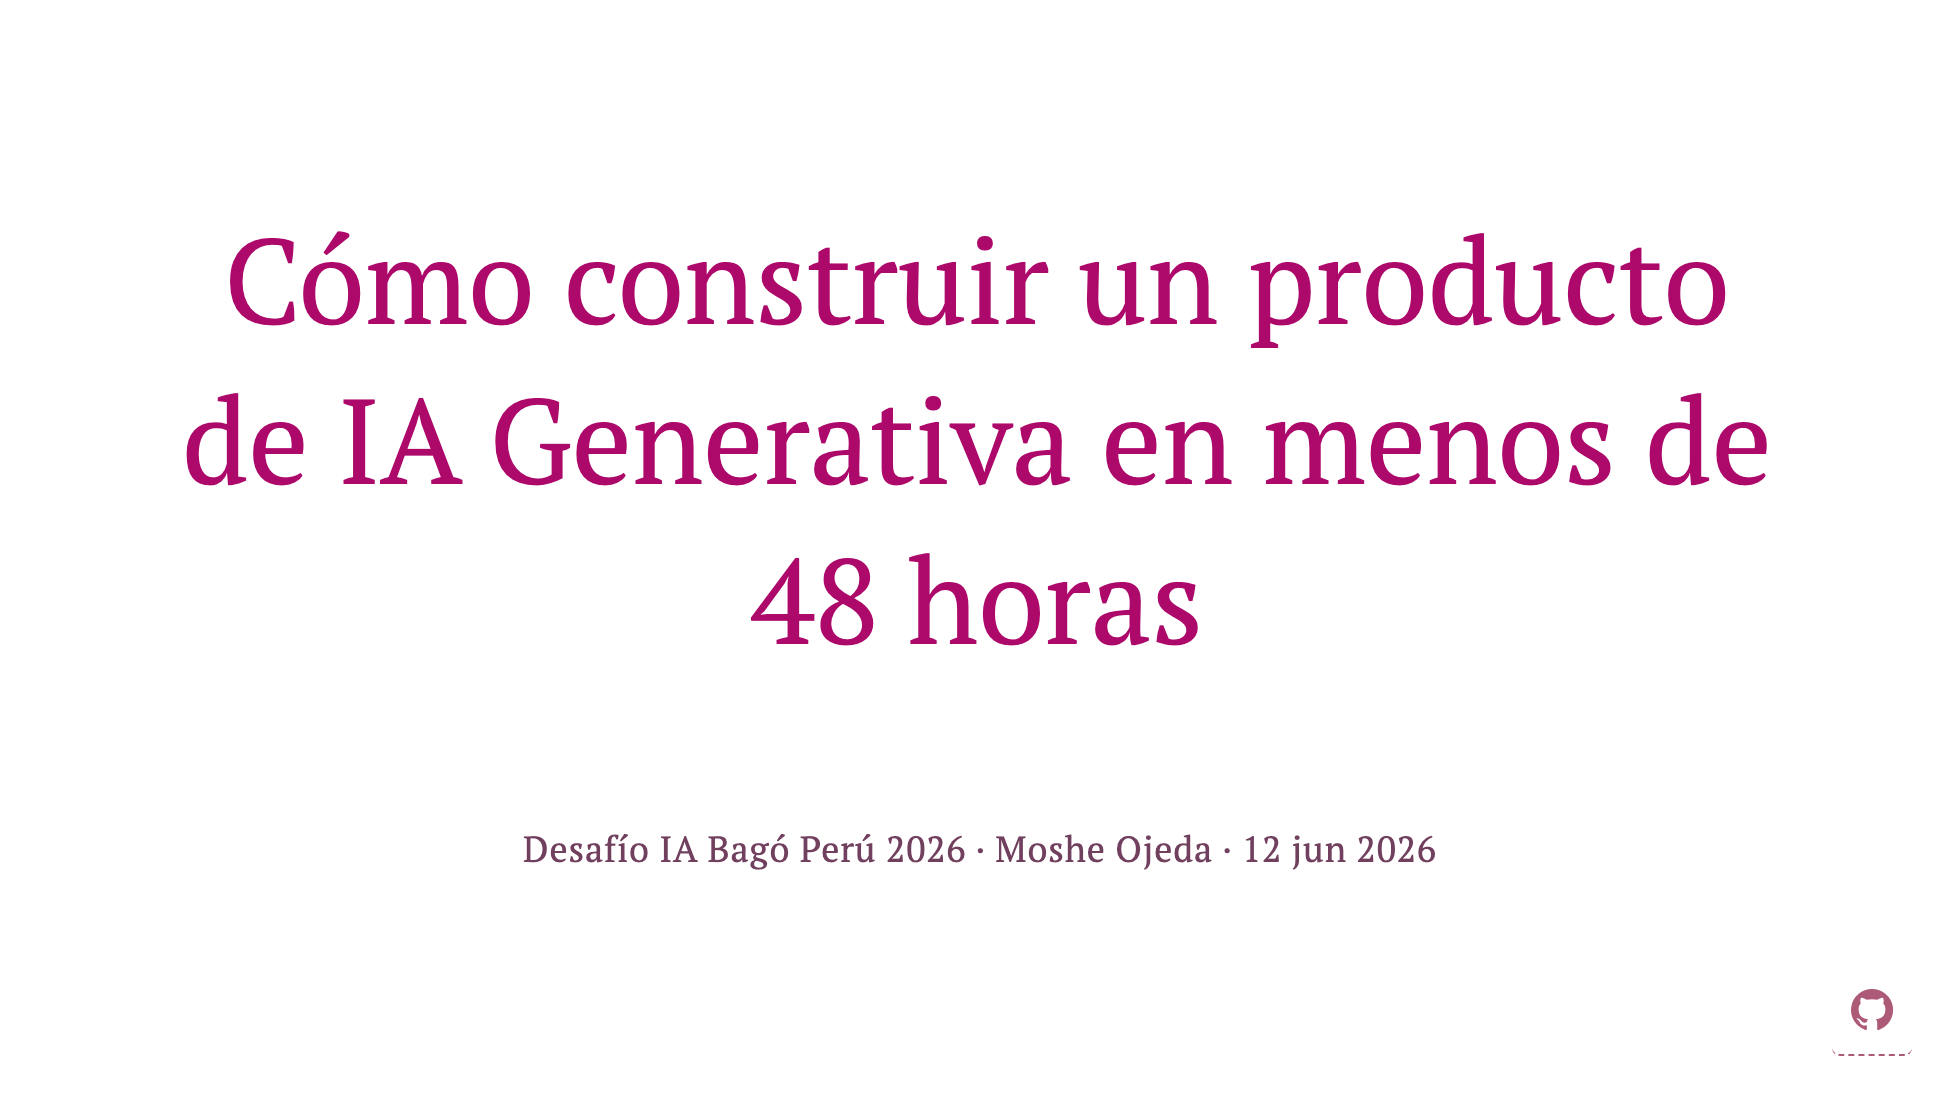
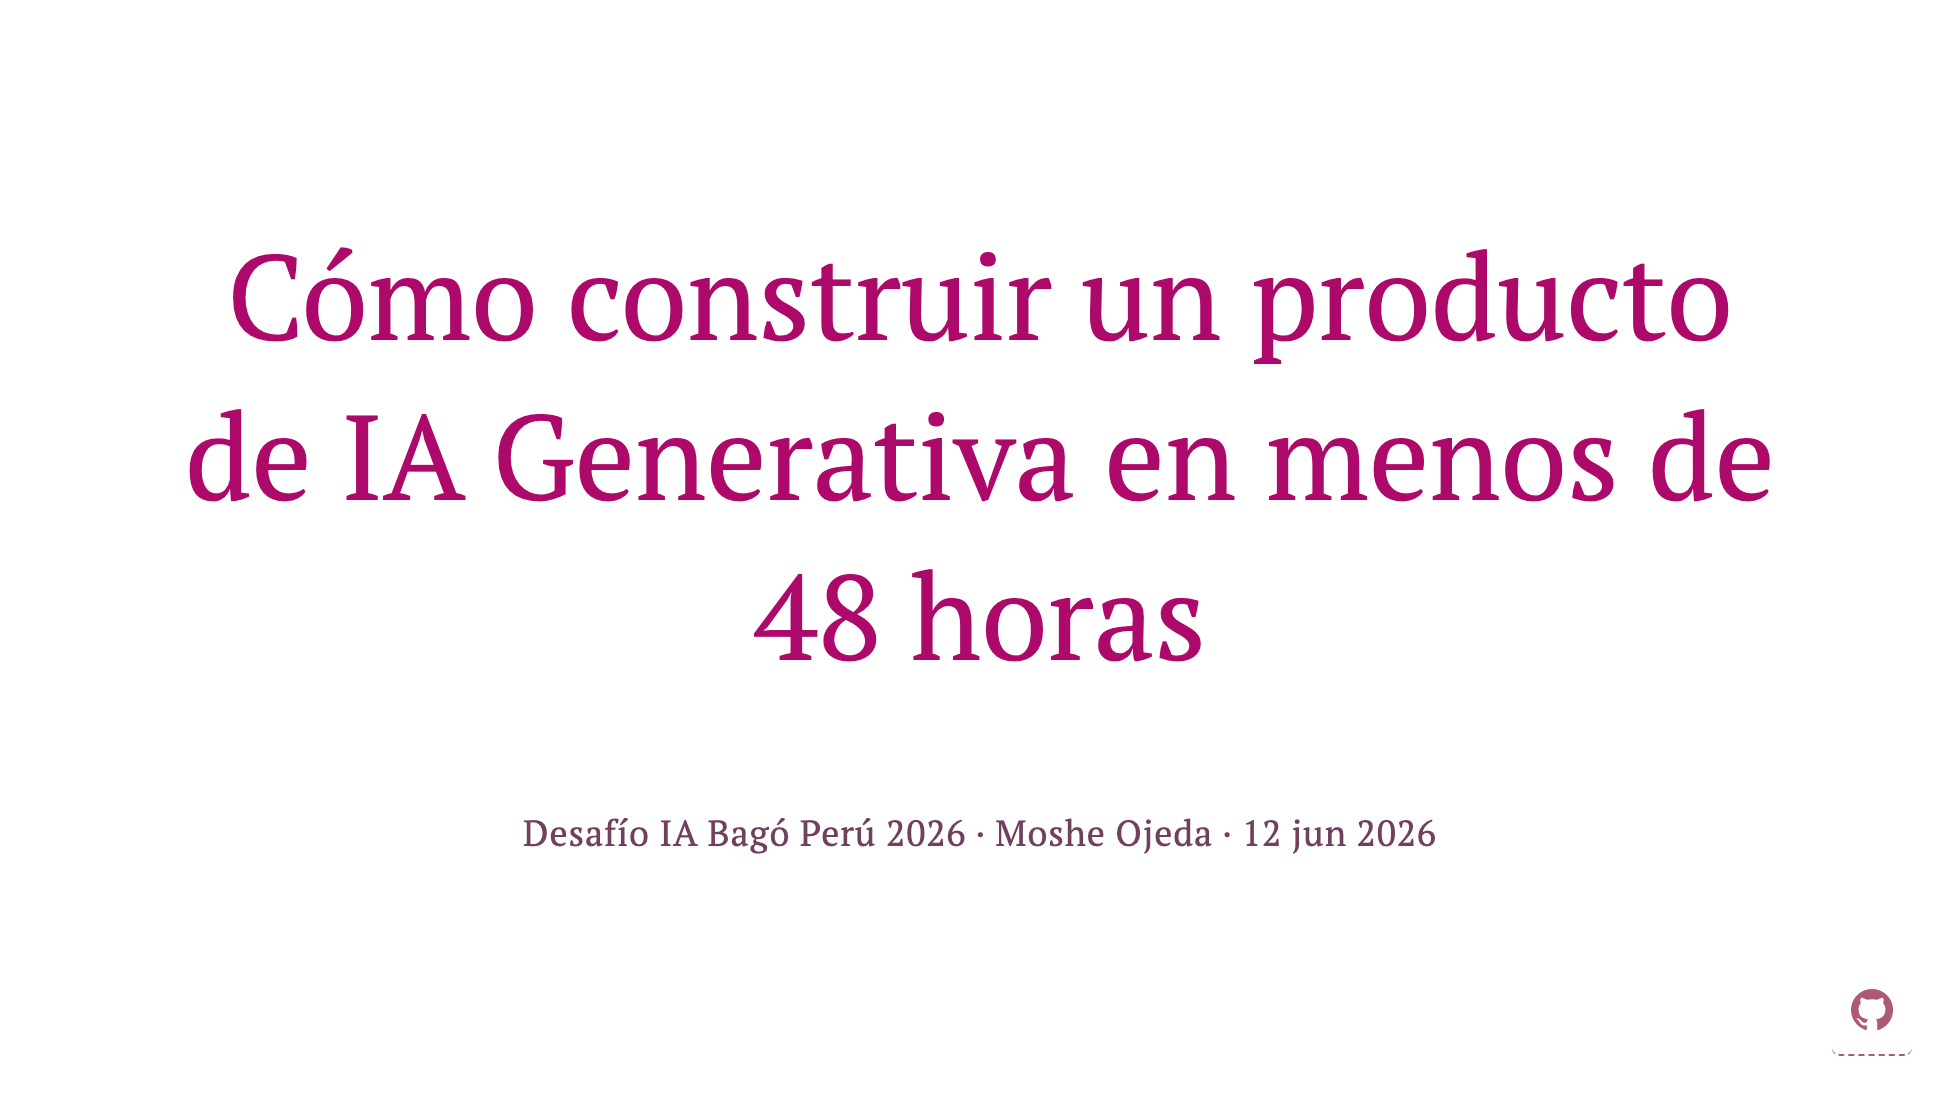
polish: cap cover title size (C4) — close polish pass
The seriph cover h1 defaulted to ~5rem, filling >50% of the slide.
Capped to 3rem via .cover-slide h1 so the title reads as intentional
rather than "as big as possible". Removes the last C4 violation.

Also drops dead .cover-block CSS rules (superseded by inline flex).

diff --git a/style.css b/style.css
@@ -16,26 +16,13 @@
  * Added during the first /slides polish pass on this deck.
  * ============================================================ */
 
-/* Slide 1 — cover: title doesn't dominate (C4), deliberate title↔meta gap (C6),
- * meta in uniform weight (N1 — no bold-vs-muted mix on sibling pieces). */
-.cover-block {
-  display: flex;
-  flex-direction: column;
-  align-items: center;
-  justify-content: center;
-  min-height: 70vh;
-}
-.cover-block h1 {
-  font-size: 3.2rem;
-  line-height: 1.2;
+/* Slide 1 — cover: title doesn't dominate (C4). seriph defaults the cover h1
+ * to ~5rem, which fills >50% of the slide; cap it so the title reads as
+ * intentional, not "as big as possible". */
+.cover-slide h1 {
+  font-size: 3rem;
+  line-height: 1.25;
   margin: 0;
-}
-.cover-meta {
-  margin-top: 2.5rem;
-  font-size: 1.15rem;
-  letter-spacing: 0.02em;
-  color: var(--c-fg);
-  opacity: 0.75;
 }
 
 /* Slide 7 — fixed column widths so wrap is consistent (C10 + N3). */

diff --git a/slides.md b/slides.md
@@ -12,7 +12,7 @@ transition: slide-left
 mdc: true
 ---
 
-<div class="h-full flex flex-col items-center justify-center text-center">
+<div class="cover-slide h-full flex flex-col items-center justify-center text-center">
 
 # Cómo construir un producto<br/>de IA Generativa en menos de 48 horas
 